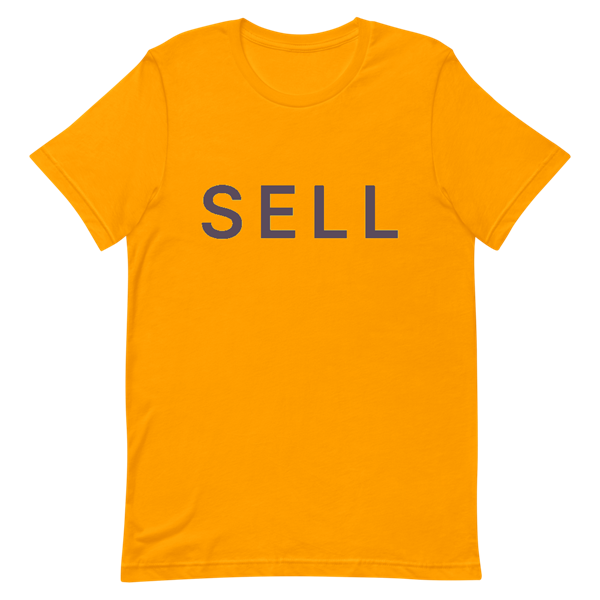
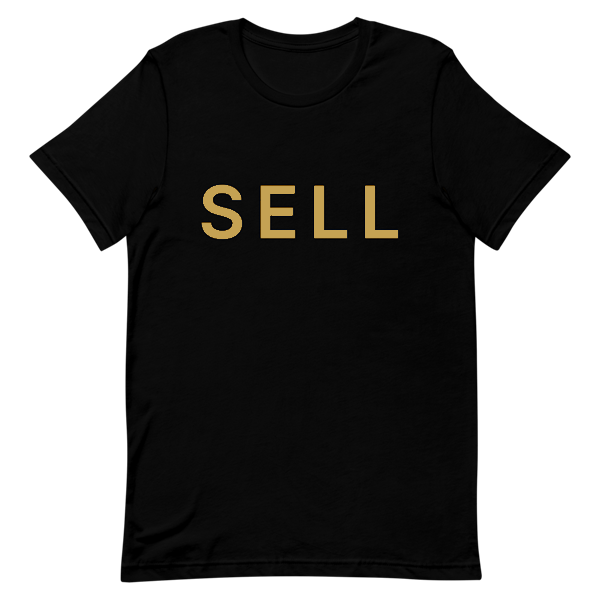
Set Baltimore Alternate One to black and metallic gold

diff --git a/lib/products.ts b/lib/products.ts
@@ -78,6 +78,7 @@ export function colorHex(team: Team, style: Style): string {
 
 export function printColorName(team: Team, style: Style): string {
   if (team.slug === "nfl-new-york-green-alternate-one") return "pink";
+  if (team.slug === "nfl-baltimore-alternate-one" && style === "tee") return "metallic gold";
   if (team.alternateOf) {
     const original = getTeam(team.alternateOf);
     if (original) {
@@ -99,6 +100,7 @@ export function printColorName(team: Team, style: Style): string {
 
 export function printColorHex(team: Team, style: Style): string {
   if (team.slug === "nfl-new-york-green-alternate-one") return "#FF1493";
+  if (team.slug === "nfl-baltimore-alternate-one" && style === "tee") return "#C5A253";
   if (team.alternateOf) {
     const original = getTeam(team.alternateOf);
     if (original) {

diff --git a/lib/teams.ts b/lib/teams.ts
@@ -197,7 +197,7 @@ const BASE_TEAMS: Team[] = ROWS.map(([slug, division, market, nickname, city, sh
 // Most originals use white ink; the AFC North originals retain their chosen
 // black, orange, and metallic-gold print colors. New England uses Nautical Blue.
 const ALTERNATE_TEE_BLANK: Record<string, string> = {
-  "nfl-baltimore": "Gold",
+  "nfl-baltimore": "Black",
   "nfl-buffalo": "Red",
   "nfl-cincinnati": "Black",
   "nfl-cleveland": "Orange",

diff --git a/lib/art.ts b/lib/art.ts
@@ -1,5 +1,5 @@
 // Bump when the shirt artwork or photos change: Printful caches print files by
 // URL and next/image caches optimized photos by URL, so a new number makes
 // both fetch fresh copies.
-export const ART_VERSION = 28;
+export const ART_VERSION = 29;
 
